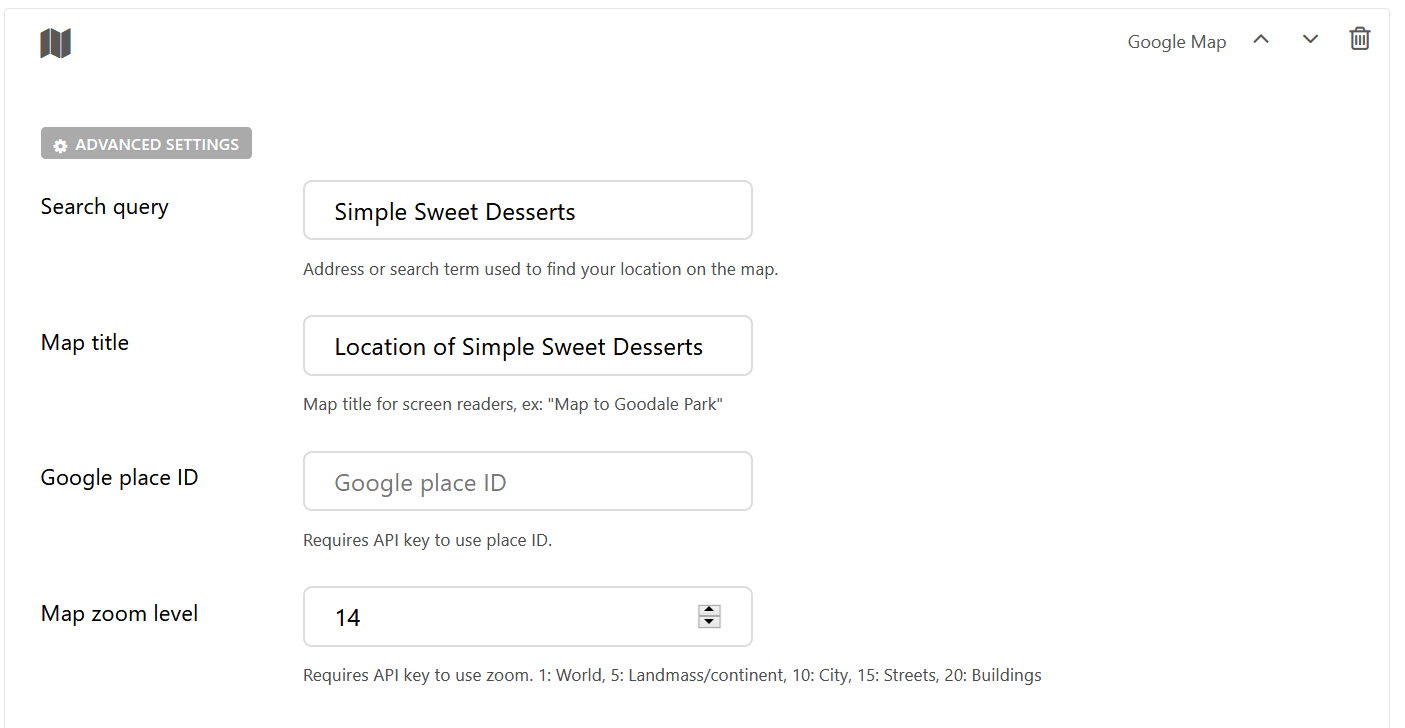
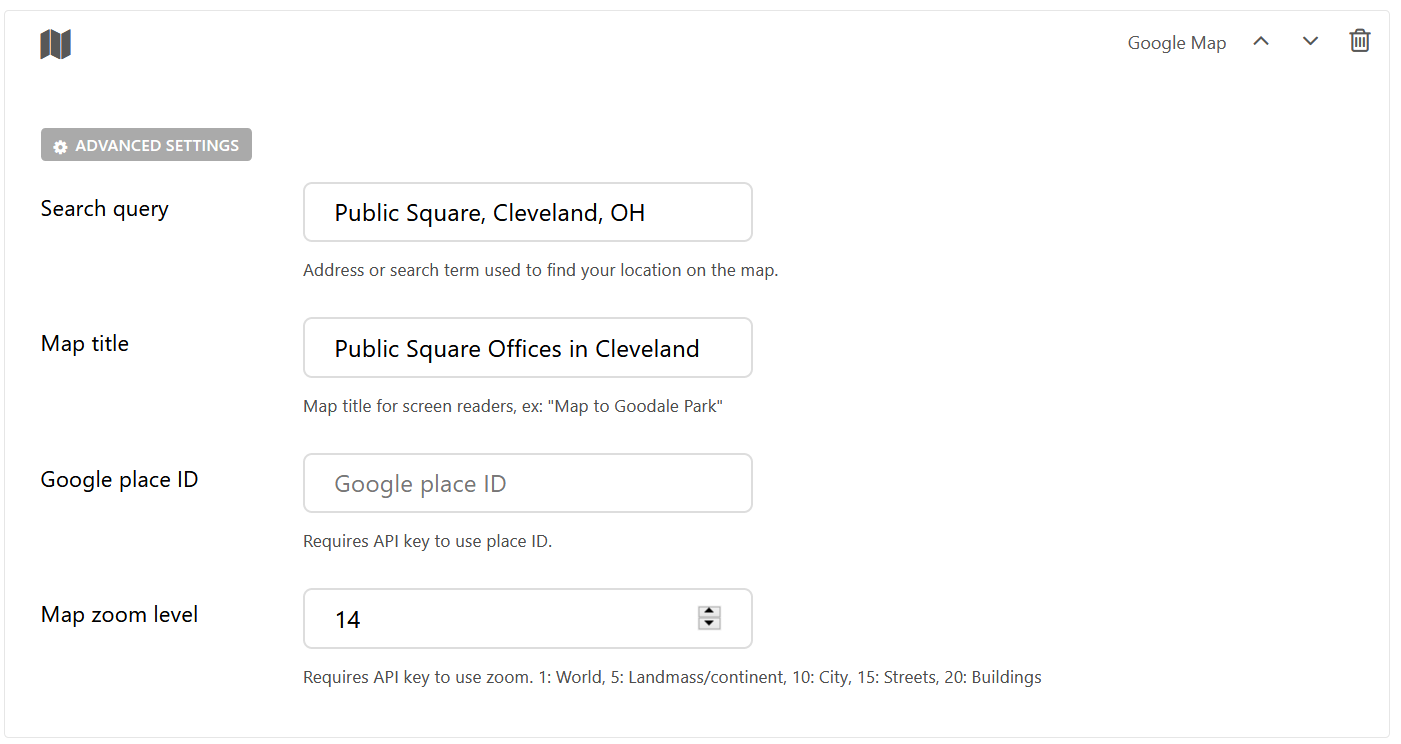
made requested updates and changes to text and images

diff --git a/docs/features/blocks/contentblocks/googlemap.rst b/docs/features/blocks/contentblocks/googlemap.rst
@@ -14,20 +14,23 @@ Fields and purposes:
 
 * **Google Place ID** - Place IDs uniquely identify a place in the Google Places database and on Google Maps
 
-.. note::
-    Google Place IDs require a Google API Key. Read more about `Google Place IDs <https://developers.google.com/places/place-id>`_.
-
 * **Map Zoom Level** - Requires API key to use zoom. ex: 1: World, 5: Landmass/continent, 10: City, 15: Streets, 20: Buildings
 
 * **Advanced Settings** - Add custom CSS classes or a CSS ID to style the block with your custom CSS
 
-.. figure:: img/googlemap_settings.png
-    :alt: Google Map block with its Settings
-
-    A Google Map block with its Settings
-
 .. note::
-    Our cupcake shop does not exist so searching for it in Google Maps won't actually find it. This was just for
-    illustrative purposes. 
+    Google Place IDs and Zoom both require a Google API Key. 
+    Read more about `Google Maps API Keys <https://developers.google.com/maps/documentation/javascript/get-api-key>`_ .
+
+.. figure:: img/googlemap_settings.png
+    :alt: Our Google Map settings for Public Square, Cleveland, OH
+
+    Our Google Map settings for Public Square, Cleveland, OH
+
+.. figure:: img/googlemap_published.png
+    :alt: A published Google Map
+
+    A Google Map of the Public Square offices in Cleveland (where we're located!)
+
 
 

diff --git a/docs/features/blocks/contentblocks/card.rst b/docs/features/blocks/contentblocks/card.rst
@@ -4,7 +4,7 @@ Card Block
 Allows the user to fill out information to be displayed in a card. Crops the image to a 3:2 ratio. 
 
 .. note::
-    There is also a Card Grid Layout Block which groups cards into a grid and is a LayOut Block; 
+    There is also a :ref:`card-grid` which groups cards into a grid and is a Layout Block; 
     this Card Block only displays a single card.
 
 Field Reference
@@ -22,7 +22,5 @@ Fields and purposes:
 
 * **Links > Button Link** - The button link to include at the bottom of the card, set to link to a page or external link
 
-.. figure:: img/card_settings.png
-    :alt: A card block and its settings
-
-    A card block and its settings
+Explore `Bootstrap Cards <https://getbootstrap.com/docs/4.0/components/card/>`_ to get an understanding of the
+appearance and function of cards. 

diff --git a/docs/features/blocks/layoutblocks/column.rst b/docs/features/blocks/layoutblocks/column.rst
@@ -14,8 +14,12 @@ Fields and purposes:
 
 * **Content** - Options for the content blocks to display in the columns
 
+* **Advanced Settings** - Add custom CSS classes and IDs, select the breakpoint, and more
+
 Column Size can be set automatically by how many columns you have and the size of the content; however,
-you may want to choose which size to make your columns depending on your layout design. Learn more about 
-`Boostrap column sizing <https://getbootstrap.com/docs/4.0/layout/grid/>`_ .
+you may want to choose which size to make your columns depending on your layout design. 
+
+Learn more about `Boostrap column sizing <https://getbootstrap.com/docs/4.0/layout/grid/>`_ 
+and `Boostrap breakpoints <https://getbootstrap.com/docs/4.0/layout/overview/#responsive-breakpoints>`_.
 
 SEE ALSO: :ref:`content-blocks`

diff --git a/docs/features/blocks/contentblocks/reusablecontent.rst b/docs/features/blocks/contentblocks/reusablecontent.rst
@@ -15,7 +15,7 @@ Fields and purposes:
 
     The reusuable content block in page editor
 
-Reusable Content is created in **Snippets > Reusable Content**. Once you have created a block of reusable content,
+Reusable Content is created in **Snippets >** :ref:`reusable-content`. Once you have created a block of reusable content,
 you can choose it for any page on your site with the Reusable Content Block.
 
 Reusable content could be anything that you want to reuse across the site. It has layout blocks and content blocks,

diff --git a/docs/features/blocks/contentblocks/embedmedia.rst b/docs/features/blocks/contentblocks/embedmedia.rst
@@ -25,8 +25,7 @@ Fields and purposes:
 .. figure:: img/embedmedia2.png
     :alt: How it displays on the page.
 
-    How the embedded media would display on the published page, with a content column next to it that we added.
-
+    How the embedded media would display on the published page.
 .. note::
     You can use Bootstrap utility classes like ``w-50`` on your embeds. The size of the video
     also changes depending on whether it's in a full-width column or a half-column, etc. 

diff --git a/docs/features/blocks/contentblocks/latestpages.rst b/docs/features/blocks/contentblocks/latestpages.rst
@@ -16,6 +16,9 @@ Fields and purposes:
 
 * **Number of Pages to Show** - Limits how many pages are displayed to the number that you selected
 
+.. note::
+    There are also a few built-in templates available for this block under the **Advanced Settings** section.
+
 The pages are displayed as links with a line or so of text if the preview option is selected.
 
 .. figure:: img/latestpages1.png

diff --git a/docs/features/blocks/layoutblocks/index.rst b/docs/features/blocks/layoutblocks/index.rst
@@ -9,5 +9,4 @@ Layout blocks are the blocks for building your site in the CMS.
     cardgrid
     column
     hero
-    htmllayout
     responsivegridrow

diff --git a/docs/features/snippets/reusable_content.rst b/docs/features/snippets/reusable_content.rst
@@ -1,3 +1,5 @@
+.. _reusable-content:
+
 Reusable Content
 ================
 

diff --git a/docs/features/blocks/layoutblocks/cardgrid.rst b/docs/features/blocks/layoutblocks/cardgrid.rst
@@ -1,3 +1,5 @@
+.. _card-grid:
+
 Card Grid Block
 ===============
 
